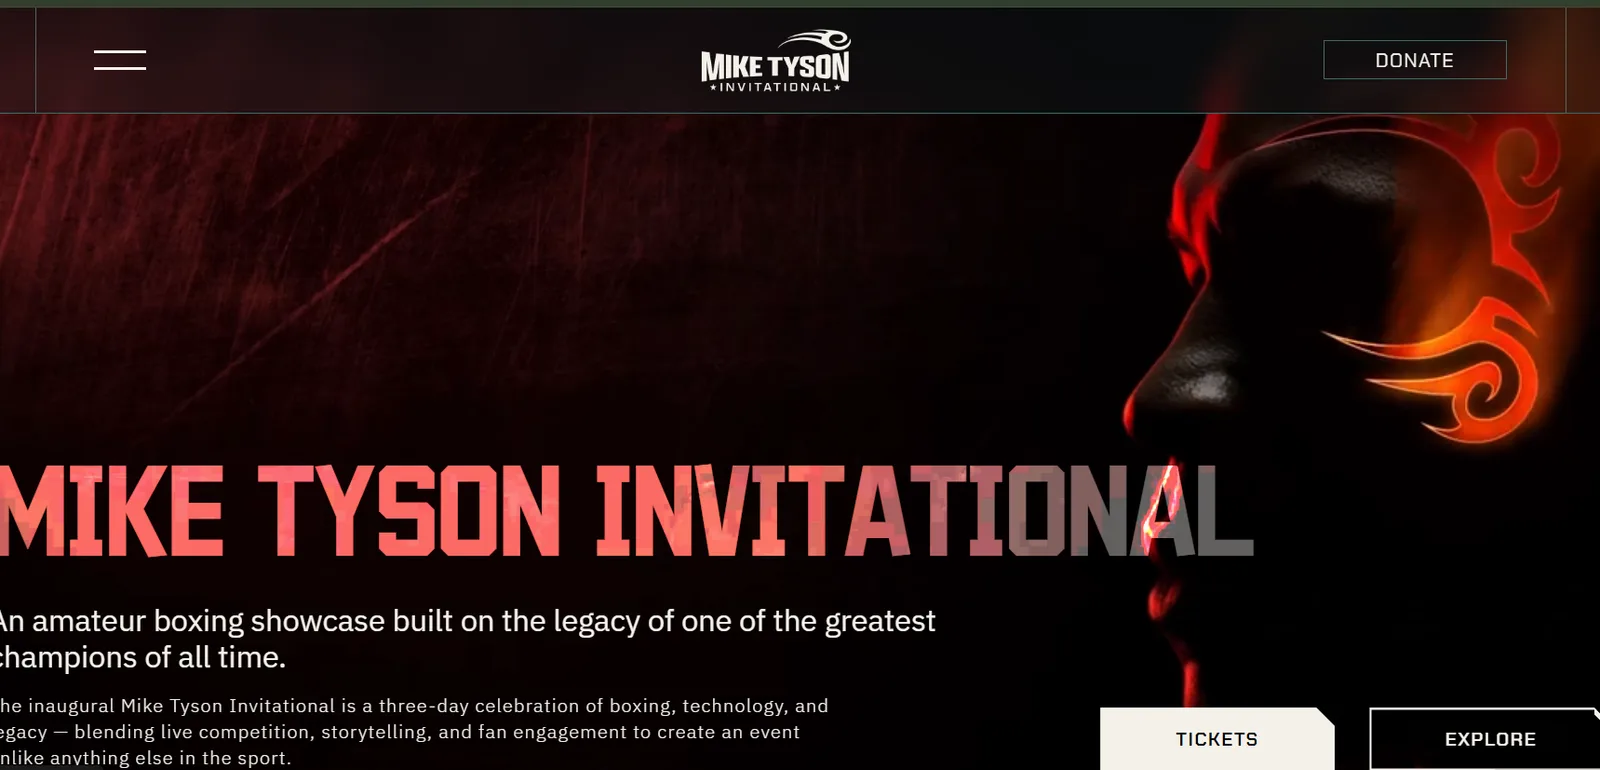
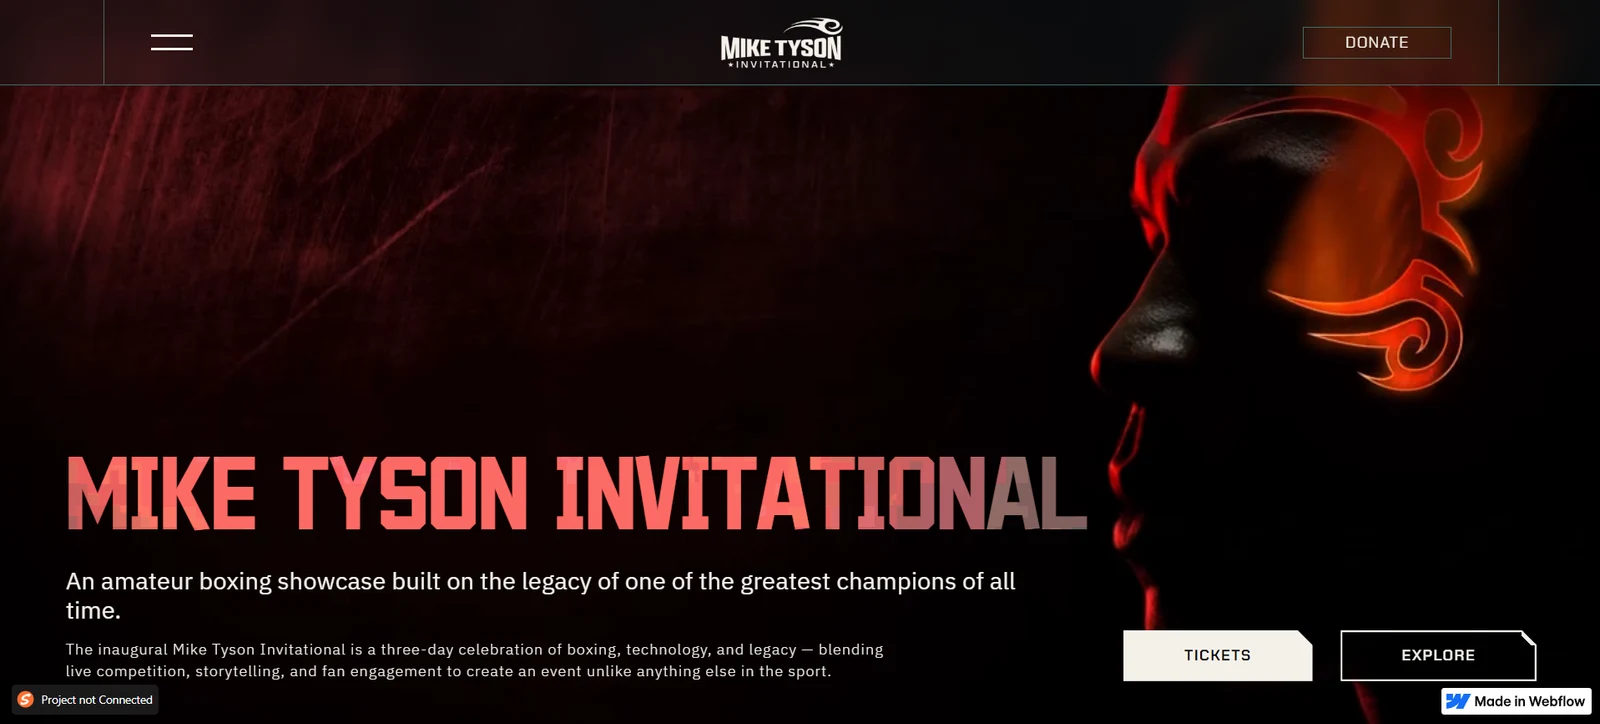
Stop cropping the direction boards, and swap in the intact hero
The boards were being cropped by the page, not by the file. They are
1400x803, which is 1.743, and .csDir__shot forced them into a 16/10 box
with object-fit: cover. Covering a 1.600 box out of a 1.743 image throws
away eight per cent of the width, about 57px a side - and 57px is almost
exactly the margin these boards were drawn with, so the headline lost its
first letter on all four. "LOREM IPSUM" came out reading "OREM IPSUM".
The board is the artwork rather than a thumbnail of it, so the frame takes
the board's shape now. They render 291x167, which is 1.743 exactly.

The hero is the screenshot from Downloads, normalised to the 1600px width
the other captures use: 1600x724, left gutter 18 where the old file had 0.
The headline, the subhead, the paragraph and both buttons are all whole.
IMAGE_DIMS follows it from 770 to 724, since that is what reserves the box
before it loads.

It keeps the Webflow badges, and that is the trade rather than an
oversight. The stills pipeline exists to strip them, and I tried twice:
cropping the bottom band takes the third paragraph and the buttons with
it, and masking the two corners covers part of that paragraph and the edge
of EXPLORE, because the badges overlap the design rather than sitting
below it. A whole capture with two small badges beats a tidy one with a
line of copy missing.

Root cause for the other three, for whoever re-exports them:
scripts/mike-tyson-stills.mjs takes a uniform 100px off each side to
[…]

diff --git a/components/projects/case/case.css b/components/projects/case/case.css
@@ -1804,12 +1804,25 @@
   box-shadow: 0 0 0 1px var(--cs-accent);
 }
 
+/*
+  A direction board keeps its own proportions.
+
+  These were forced into a 16/10 box with object-fit: cover, and they are
+  1400x803, which is 1.743. Covering a 1.600 box out of a 1.743 image throws
+  away eight per cent of the width - about 57px a side on the original - and
+  57px is almost exactly the margin these boards were drawn with, so the
+  headline lost its first letter on every one of them. "LOREM IPSUM" came
+  out reading "OREM IPSUM".
+
+  The board is the artwork, not a thumbnail of it, so the frame takes the
+  shape the board has rather than the other way round. The four in this
+  project are all the same size, so the row stays even; a set that is not
+  will be uneven rather than cut, which is the right way round.
+*/
 .csDir__shot {
   display: block;
   width: 100%;
   height: auto;
-  aspect-ratio: 16 / 10;
-  object-fit: cover;
 }
 
 .csDir__head {

diff --git a/components/projects/imageDims.ts b/components/projects/imageDims.ts
@@ -195,7 +195,7 @@ export const IMAGE_DIMS: Record<string, [number, number]> = {
   "/projects/mike-tyson/home-footer.webp": [1600, 762],
   "/projects/mike-tyson/home-hero-alt.webp": [1600, 752],
   "/projects/mike-tyson/home-hero-cursor.webp": [1600, 757],
-  "/projects/mike-tyson/home-hero.webp": [1600, 770],
+  "/projects/mike-tyson/home-hero.webp": [1600, 724],
   "/projects/mike-tyson/home-highlights.webp": [1600, 765],
   "/projects/mike-tyson/home-live-stream.webp": [1600, 760],
   "/projects/mike-tyson/homepage-poster.webp": [1280, 580],
